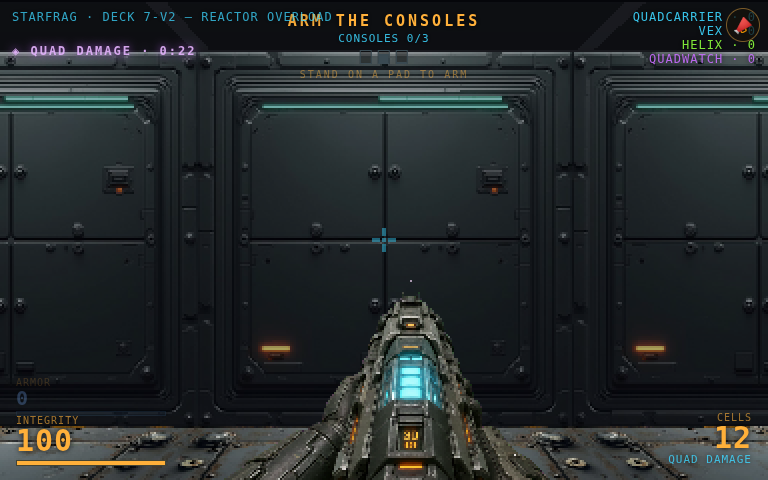
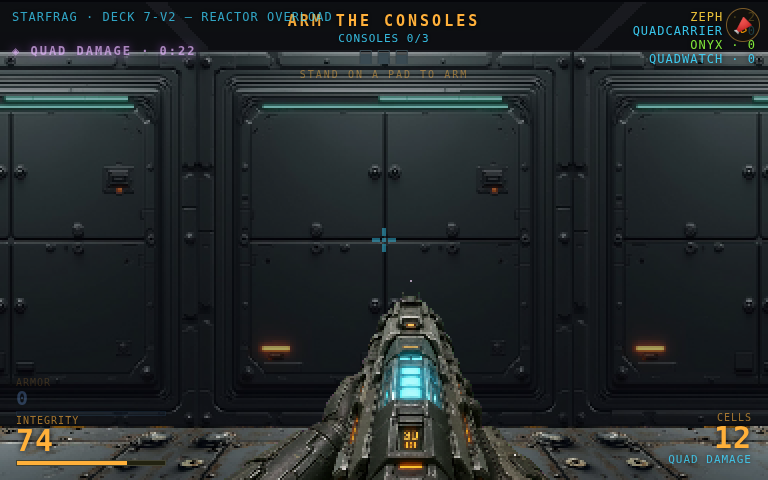
Powerups: close quad×defensive stacking with THE SYMMETRIC TRADE
A body holds QUAD or a DEFENSIVE (armor plates / mega overheal), never both —
grabbing either while the other is live ENDS the other, in BOTH grab orders (the
prior one-directional fix left "grab armor first, quad second" open):
  - quad-active player grabs armor/mega -> the defensive applies, quad ends now
  - armored/overhealed player grabs quad -> quad applies, armor stripped to 0 and
    hp clamped to 100 (the defensive is spent)
Plain +health and ammo stay neutral; armor+mega may still stack (canon item
control, no TTK compression). The anti-phase pad cadence is kept as spawn rhythm,
no longer the load-bearing invariant.

Feedback (an unannounced trade reads as a bug): the server flags the trade on the
existing S2C.POWERUP event (`traded:'quad'|'defensive'`); the client toasts both
ways ("◈ QUAD SPENT — ARMOR/MEGA UP" / "PLATES SPENT — ◈ QUAD DAMAGE"), the purple
carrier tint + holder countdown clear via STATE the instant quad ends, and a
darkened 'trade' synth cue fires.

Tests: powerups-test now asserts the TRUE invariant — zero double-buff STATE
frames across a quad↔defensive grab schedule (both orders, both defensive kinds)
plus trade-fired assertions both orders + ammo/health neutrality controls;
replaces the old pad-phase-only case. Live: powerups-verify drives a real trade
(quad -> armor) on deck7v2 and asserts quad ends + toast + tint drop.

diff --git a/shared/protocol.js b/shared/protocol.js
@@ -138,15 +138,16 @@ export const POWERUP = {
   PICKUP_RADIUS: 0.75,            // walk this close (cells) to grab an item — matches weapons
 };
 
-// --- DEFENSIVE-PAD ANTI-PHASING (armor + mega-health) -----------------------
-// The QUAD telegraph is a wall-clock cycle: it's fresh/READY for QUAD_READY_MS at the top of
-// every QUAD_CYCLE_MS (the server grab-gate + the client telegraph both read this same clock).
-// The DEFENSIVE items (armor plates + mega-health overheal) are the survivability grabs, and
-// quad + one of them on the same body (⅔ absorb behind a big damage mult) is near-unkillable.
-// A plain free-run respawn drifts INTO phase with the quad cycle, so those two power spikes keep
-// co-refreshing. Instead the server locks the defensive respawn to the quad clock, offset a HALF
-// cycle — the quad's ANTI-PHASE point — so fresh plates are NEVER on the floor during the quad's
-// READY window. These pure helpers are the single source of that math (server + tests import them).
+// --- DEFENSIVE-PAD ANTI-PHASING (armor + mega-health) — SPAWN RHYTHM ---------
+// NOTE: quad×defensive stacking is now closed by THE SYMMETRIC TRADE (see applyItem + the quad
+// grab in server.mjs): a body holds quad OR a defensive, never both, so grabbing either while the
+// other is live ENDS the other. That trade — not this spawn schedule — is the actual invariant.
+// Anti-phasing is KEPT purely as good spawn CADENCE: the DEFENSIVE items (armor plates + mega-
+// health overheal) respawn locked to the quad clock, offset a HALF cycle (the quad's anti-phase
+// point), so a fresh defensive and a fresh quad don't both land on the floor at the same instant —
+// nicer contest rhythm, no longer load-bearing. These pure helpers are the single source of that
+// math (server + tests import them). The quad telegraph is a wall-clock cycle: it's fresh/READY
+// for QUAD_READY_MS at the top of every QUAD_CYCLE_MS (server grab-gate + client telegraph agree).
 export const QUAD_HALF_CYCLE_MS = POWERUP.QUAD_CYCLE_MS / 2;
 // Is the quad telegraph fresh/READY at wall-clock time t?
 export function quadReadyAt(t) { return (((t % POWERUP.QUAD_CYCLE_MS) + POWERUP.QUAD_CYCLE_MS) % POWERUP.QUAD_CYCLE_MS) < POWERUP.QUAD_READY_MS; }
@@ -183,7 +184,10 @@ export const S2C = {
   SHOT:    'shot',    // { id, ang, weapon, charge? }  -> muzzle flash on `id`; charge (0..1) present for the railgun -> beam intensity
   WEAPON:  'weapon',  // { weapon, clip, owned:[keys] }  -> YOUR authoritative weapon/ammo changed
   PICKUP:  'pickup',  // { id, taken }         -> a map pickup pad (weapon/item/quad) became (un)available
-  POWERUP: 'powerup', // { kind, id, by }      -> `by` grabbed a sustain/quad item (cue + toast; hp/armor/quad land via STATE)
+  POWERUP: 'powerup', // { kind, id, by, traded? } -> `by` grabbed a sustain/quad item (cue + toast; hp/armor/quad land via STATE).
+                      //   traded='quad'      : this DEFENSIVE grab (armor/mega) spent a live quad -> "QUAD SPENT — <buff> UP"
+                      //   traded='defensive' : this QUAD grab spent live armor/overheal          -> "PLATES SPENT — QUAD DAMAGE"
+                      //   (THE SYMMETRIC TRADE — a body holds quad OR a defensive, never both.)
   HIT:     'hit',     // { id, by, dmg, hp, armor }  -> player `id` took damage from `by` (armor = their remaining plates)
   KILL:    'kill',    // { id, by, weapon, names:{id,by} }  -> killfeed entry
   SPAWN:   'spawn',   // { id, x, y, ang }     -> player (re)spawned

diff --git a/client/js/game.js b/client/js/game.js
@@ -80,6 +80,7 @@ const weaponSpots = world.pickups.filter((p) => p.kind === 'weapon');
 const itemSpots = world.pickups.filter((p) => p.kind === 'health' || p.kind === 'armor' || p.kind === 'ammo');
 const pickupTaken = new Map();                 // pickup id -> true while grabbed (pad dark)
 let pickupToast = { text: '', until: 0 };      // brief "PICKED UP <NAME>" banner
+let lastTradeEvent = null;                     // last SYMMETRIC-TRADE toast I fired (sticky; QA reads it via __game.lastTrade)
 // per-kind billboard colour + short label for the sustain items above.
 const ITEM_STYLE = {
   health: { rgb: [90, 240, 130], label: '+HEALTH' },
@@ -1298,6 +1299,10 @@ function playSynth(kind, loud = true) {
     synthTone(ctx, t0, 174, 0.5, 'sawtooth', v, 349);
     synthTone(ctx, t0 + 0.02, 261, 0.5, 'sawtooth', v * 0.8, 523);
     synthTone(ctx, t0 + 0.24, 392, 0.42, 'square', v * 0.6, 784);
+  } else if (kind === 'trade') {                           // THE SYMMETRIC TRADE — the quad chord, darkened + FALLING (one buff spent for the other)
+    synthTone(ctx, t0, 174, 0.4, 'sawtooth', v * 0.9, 116);
+    synthTone(ctx, t0 + 0.02, 261, 0.4, 'sawtooth', v * 0.6, 174);
+    synthTone(ctx, t0 + 0.2, 330, 0.3, 'square', v * 0.45, 220);
   } else if (kind === 'mega') {                            // warm ascending two-tone
     synthTone(ctx, t0, 330, 0.22, 'sine', v, 494);
     synthTone(ctx, t0 + 0.13, 494, 0.3, 'sine', v, 659);
@@ -1344,6 +1349,18 @@ Net.on(S2C.PICKUP, (m) => { pickupTaken.set(m.id, !!m.taken); });
 // announces to everyone (a fainter cue) so the room knows the carrier is out there.
 Net.on(S2C.POWERUP, (m) => {
   const mine = m.by === me.id;
+  // THE SYMMETRIC TRADE — grabbing one buff SPENT the other (server flags `traded`). An
+  // unannounced swap reads as a bug, so call it out explicitly both ways + a darker 'trade' cue.
+  // (The purple carrier tint + holder countdown drop on their own via STATE the instant quad ends.)
+  if (mine && m.traded) {
+    const label = m.traded === 'quad'
+      ? `◈ QUAD SPENT — ${m.kind === 'mega' ? 'MEGA' : 'ARMOR'} UP`   // spent the quad to take a defensive
+      : 'PLATES SPENT — ◈ QUAD DAMAGE';                               // spent the defensive to take the quad
+    pickupToast = { text: label, until: performance.now() + 2200 };
+    lastTradeEvent = { traded: m.traded, kind: m.kind, text: label, at: performance.now() };
+    playSynth('trade', true);
+    return;
+  }
   const label = m.kind === 'quad' ? 'QUAD DAMAGE' : (ITEM_STYLE[m.kind]?.label || 'PICKUP');
   if (mine) { pickupToast = { text: label, until: performance.now() + 1800 }; playSynth(m.kind, true); }
   else if (m.kind === 'quad') playSynth('quad', false);
@@ -1806,6 +1823,8 @@ window.__game = {
   get hp() { return me._hp ?? 100; },
   get armor() { return me._armor ?? 0; },            // QA: authoritative armor plates
   get quadMs() { return me._quad ?? 0; },            // QA: ms of QUAD damage left on ME (0 = none)
+  get toast() { return pickupToast.until > performance.now() ? pickupToast.text : ''; }, // QA: active pickup/trade toast text ('' when none)
+  get lastTrade() { return lastTradeEvent; },        // QA: last SYMMETRIC-TRADE I fired { traded, kind, text, at } (sticky; null if none)
   get frags() { return me._frags ?? 0; },
   get x() { return me.x; },
   get y() { return me.y; },

diff --git a/client/index.html b/client/index.html
@@ -133,4 +133,4 @@
 <script src="playtest-link.js?v=rec1"></script>
 <!-- ?v bumped on client changes: Cloudflare caches js/* for 5d, the HTML is served
      fresh (cf-cache DYNAMIC), so a new query key is how a client edit reaches users. -->
-<script type="module" src="js/game.js?v=powerups"></script>
+<script type="module" src="js/game.js?v=trade"></script>